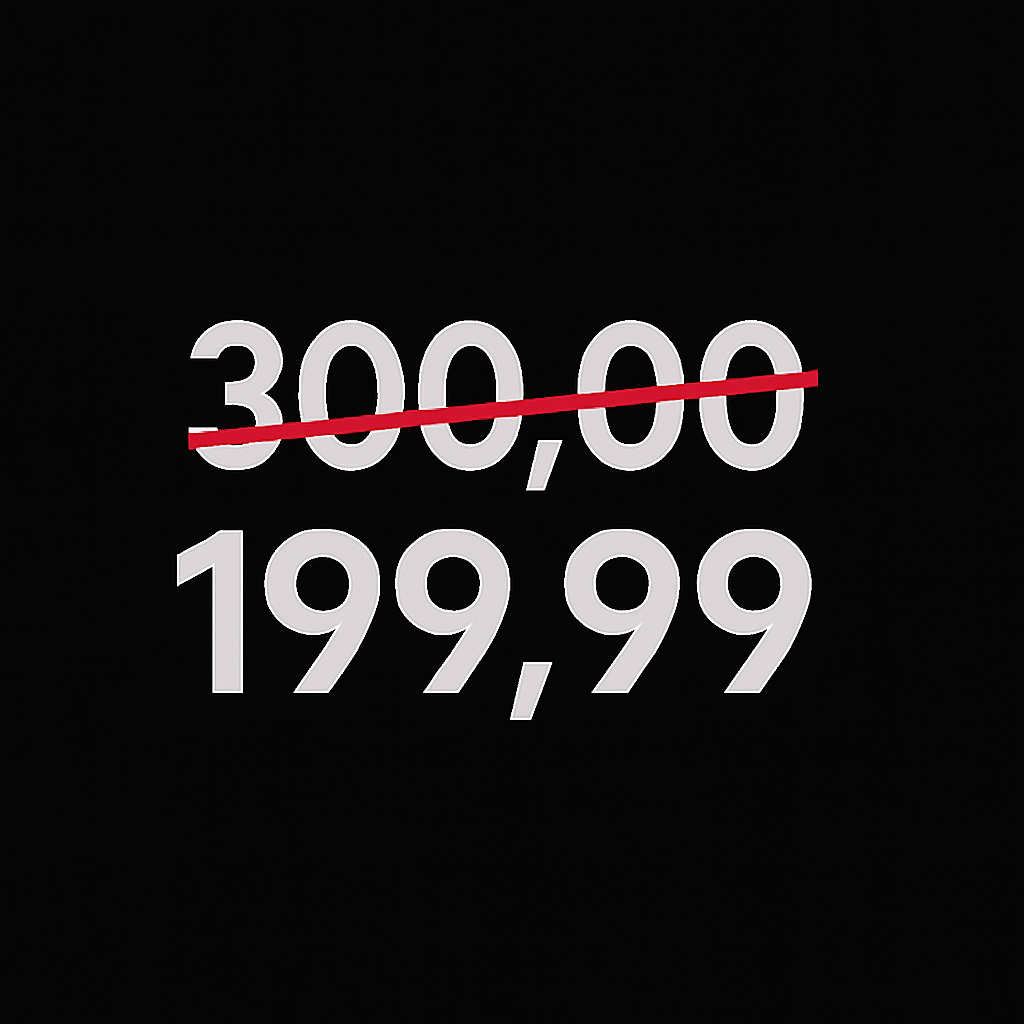
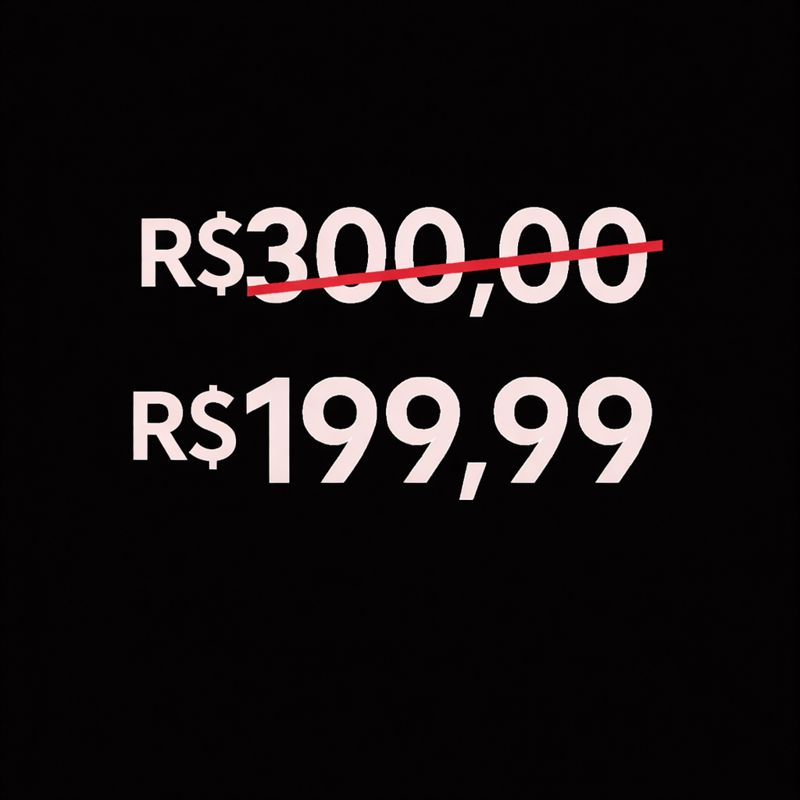
Atualizar imagens dos preÃ§os das mentorias e corrigir caminhos no index-static.html

Changed region(s): [[0.1562, 0.25, 0.8438, 0.7188]]

diff --git a/index-static.html b/index-static.html
@@ -108,12 +108,12 @@
     <div class="container form-container">
       <div class="valor">
         <h1>Mentoria Presencial</h1>
-        <img src="valor1.png" alt="Imagem promocional do acompanhamento presencial" loading="lazy" width="260" height="200">
+        <img src="assets/images/299,99.png" alt="Imagem promocional do acompanhamento presencial" loading="lazy" width="260" height="200">
         <p class="valor-info"><strong>R$ 300,00</strong> — 2 treinos por semana</p>
       </div>
       <div class="valor">
         <h1>Mentoria on-line</h1>
-        <img src="valor2.png" alt="Imagem promocional do acompanhamento on-line" loading="lazy" width="260" height="200">
+        <img src="assets/images/199,99.png" alt="Imagem promocional do acompanhamento on-line" loading="lazy" width="260" height="200">
         <p class="valor-info">Montagem de plano durante a semana — <strong>R$ 199,99</strong></p>
       </div>
       <div class="form-content">
@@ -145,7 +145,7 @@
           </p>
         </div>
         <div class="oferta-imagem">
-          <img src="valor3.png" alt="Plano introdutório por R$ 19,99" loading="lazy" width="300" height="200">
+          <img src="assets/images/19,99.png" alt="Plano introdutório por R$ 19,99" loading="lazy" width="300" height="200">
         </div>
       </div>
       
